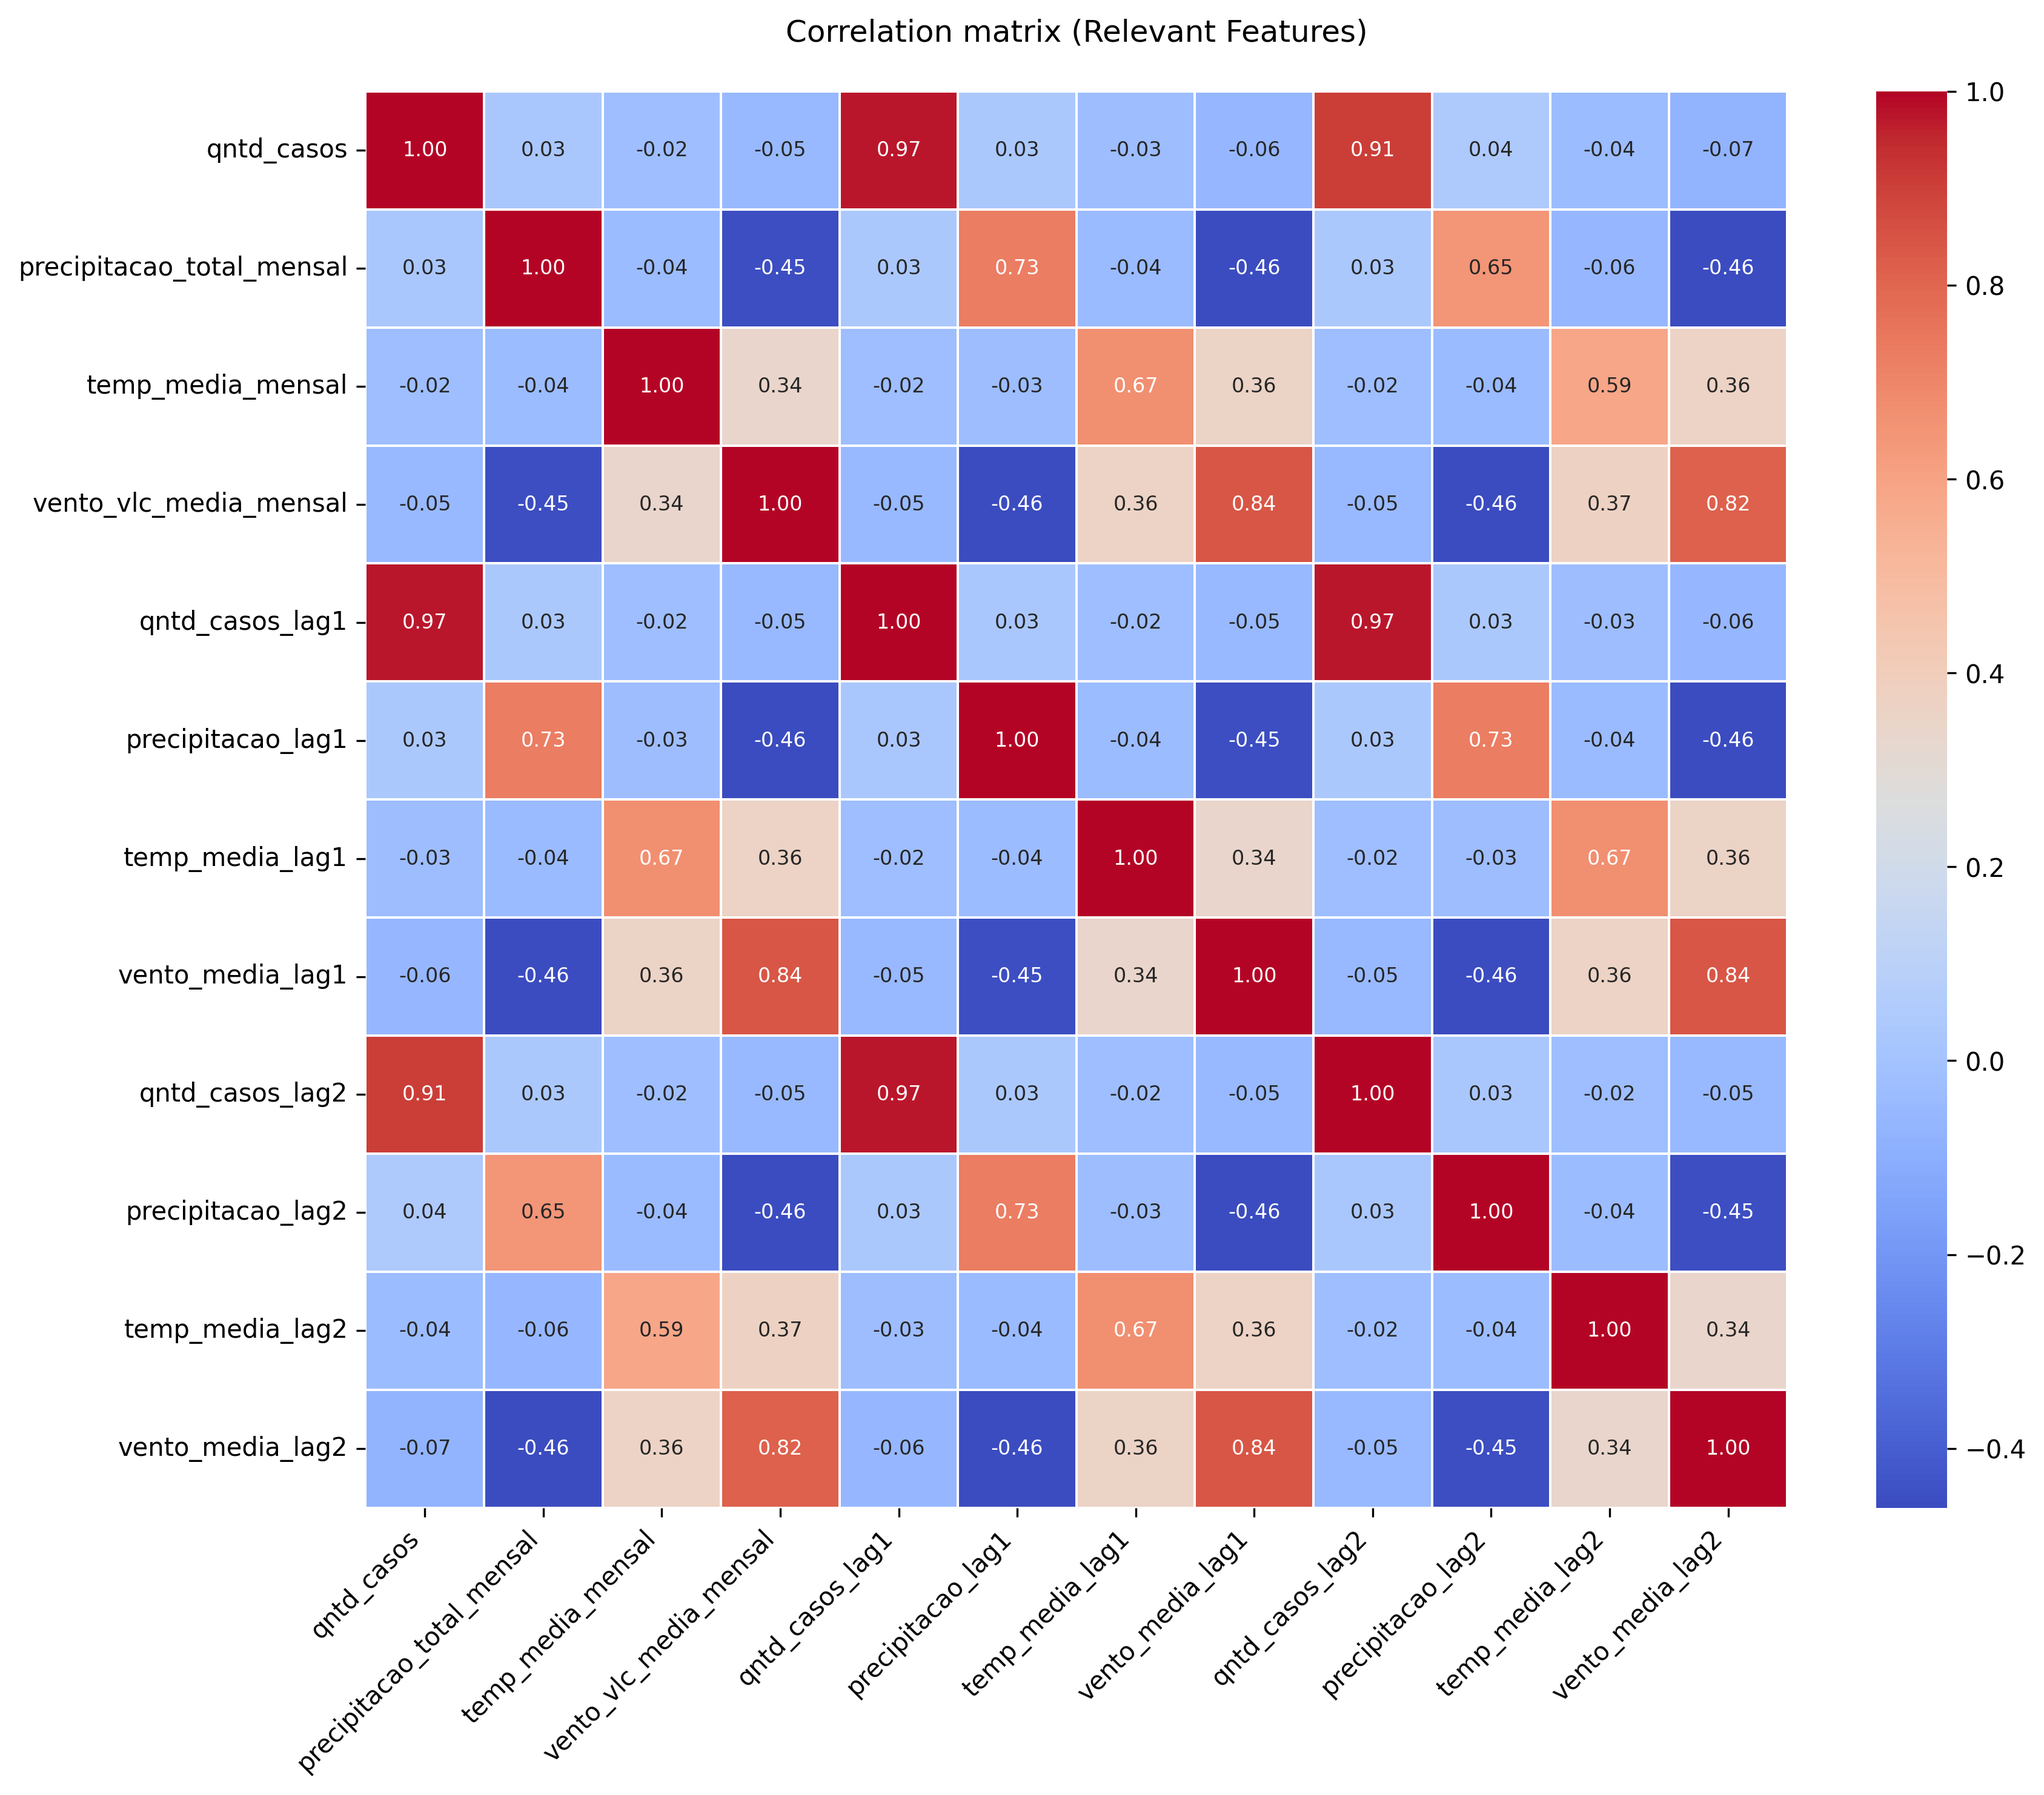
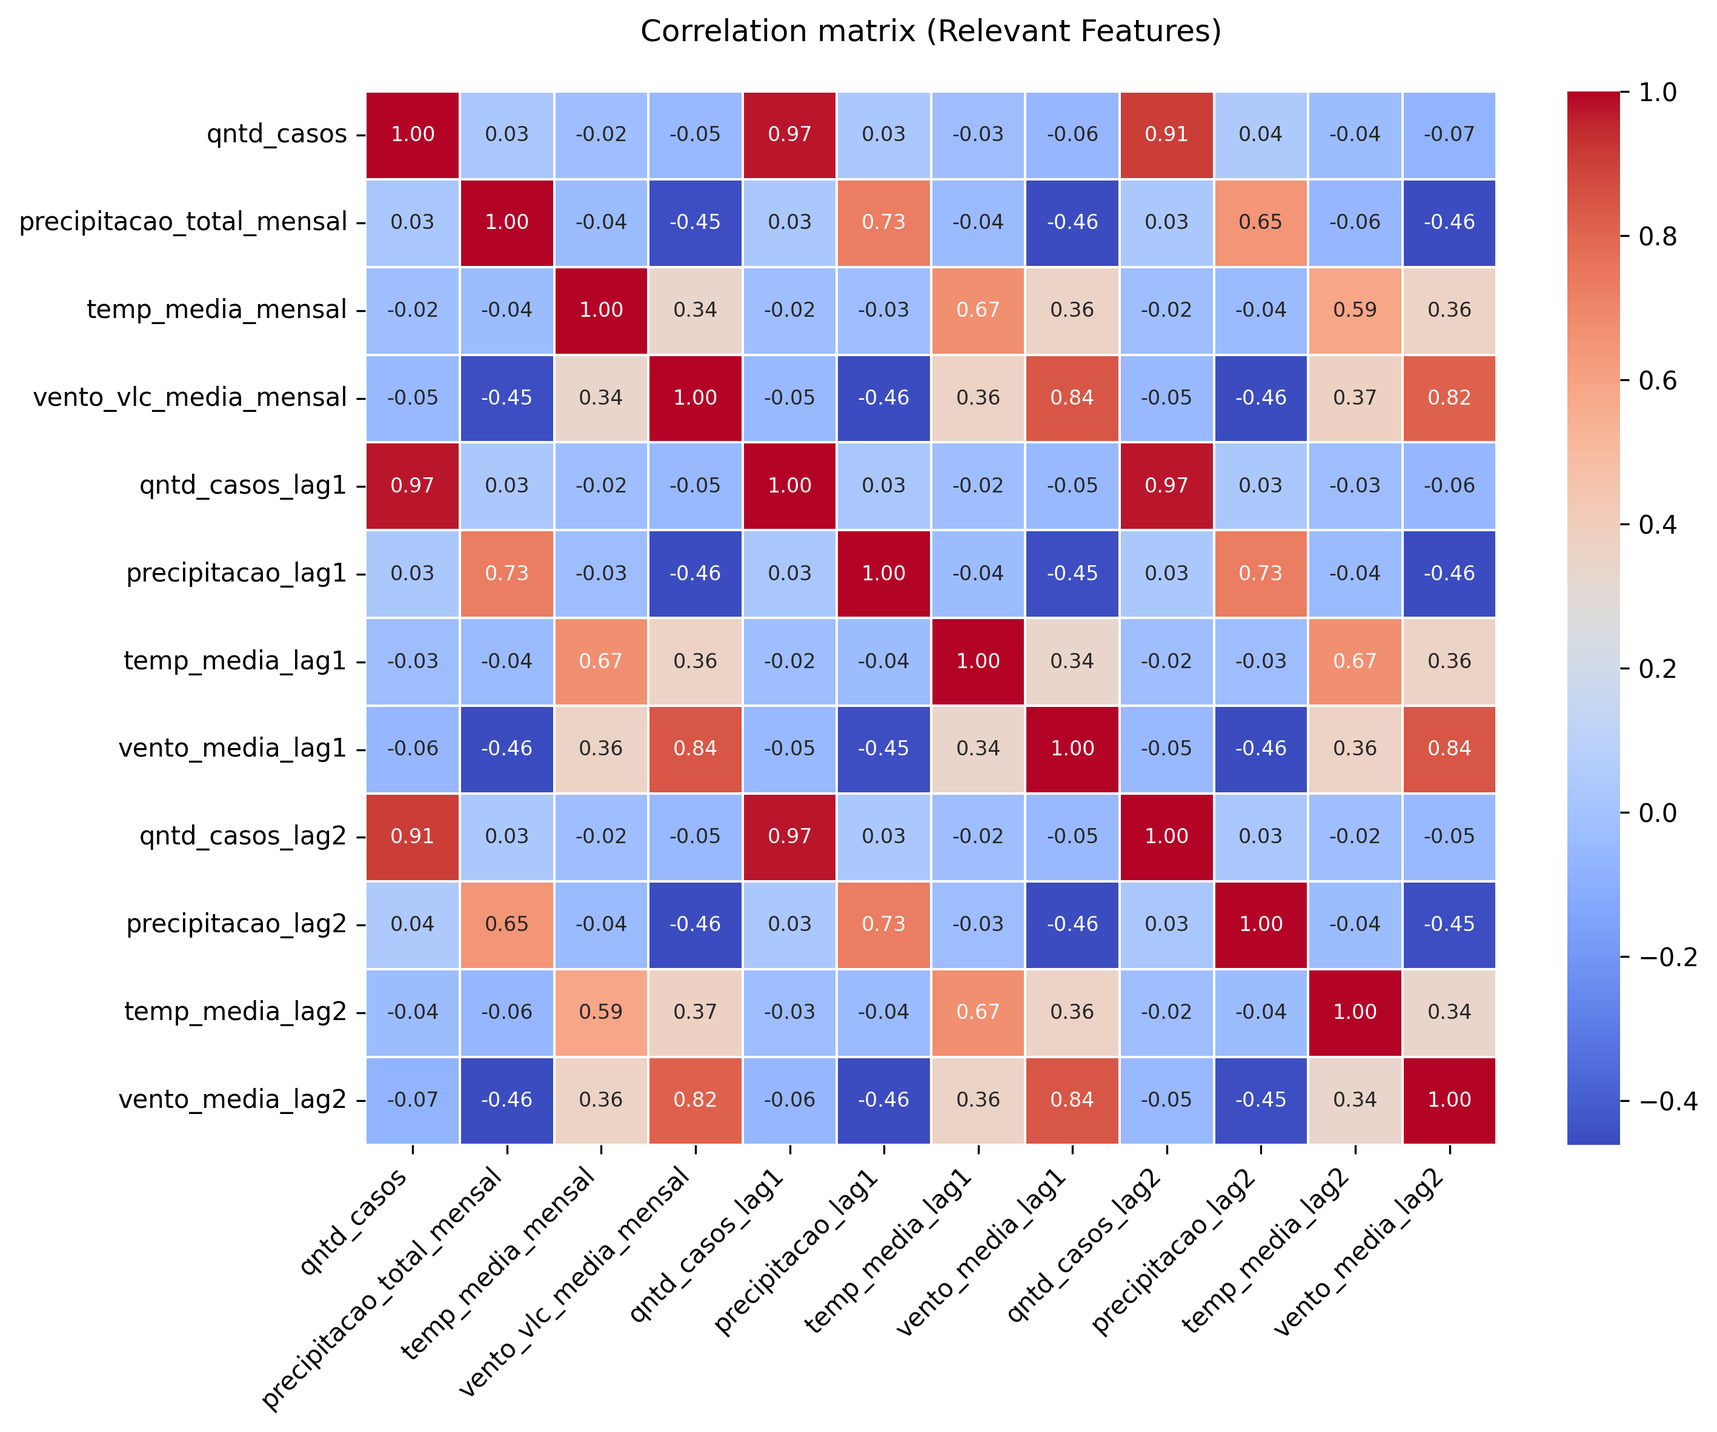
removing redundant data directory function callback

diff --git a/scripts/eda.py b/scripts/eda.py
@@ -25,8 +25,7 @@ def load_cleaned_data():
 
 
 
-def plot_dengue_cases_over_time(df):
-    models_dir = ensure_models_dir()
+def plot_dengue_cases_over_time(df, models_dir):
     plt.figure(figsize=(14, 5))
     df_monthly = df.groupby('dt_notificacao')['qntd_casos'].sum().reset_index()
     sns.lineplot(data=df_monthly, x='dt_notificacao', y='qntd_casos')
@@ -43,9 +42,7 @@ def plot_dengue_cases_over_time(df):
 
 
 
-def plot_symptoms_pie_chart(df):
-    models_dir = ensure_models_dir()
-    
+def plot_symptoms_pie_chart(df, models_dir):
     # Calculate total cases
     total_cases = df['qntd_casos'].sum()
     if total_cases == 0:
@@ -113,8 +110,7 @@ def plot_symptoms_pie_chart(df):
 
 
 
-def plot_correlation_heatmap(df):
-    models_dir = ensure_models_dir()
+def plot_correlation_heatmap(df, models_dir):
     plt.figure(figsize=(8, 6))
     cols = [
         'qntd_casos',
@@ -136,8 +132,7 @@ def plot_correlation_heatmap(df):
 
 
 
-def plot_cases_by_month(df):
-    models_dir = ensure_models_dir()
+def plot_cases_by_month(df, models_dir):
     plt.figure(figsize=(10, 6))
     sns.boxplot(x='month', y='qntd_casos', data=df)
     plt.title('Distribution of Dengue Cases by Month')
@@ -153,8 +148,7 @@ def plot_cases_by_month(df):
 
 
 
-def add_lag_features(df, lags=[1, 2]):
-    models_dir = ensure_models_dir()
+def add_lag_features(df, models_dir, lags=[1, 2]):
     df_lagged = df.copy()
     
     # Create lag features
@@ -175,7 +169,7 @@ def add_lag_features(df, lags=[1, 2]):
     df_corr = df_lagged[cols_corr].copy()
     
     
-    plt.figure(figsize=(12, 10))
+    plt.figure(figsize=(10, 8))
     sns.heatmap(
         df_corr.corr(numeric_only=True),
         annot=True,
@@ -201,8 +195,9 @@ def add_lag_features(df, lags=[1, 2]):
 if __name__ == "__main__":
     df = load_cleaned_data()
     if df is not None:
-        plot_dengue_cases_over_time(df)
-        plot_symptoms_pie_chart(df)
-        plot_correlation_heatmap(df)
-        plot_cases_by_month(df)
-        add_lag_features(df, lags=[1, 2])
+        models_dir = ensure_models_dir()
+        plot_dengue_cases_over_time(df, models_dir)
+        plot_symptoms_pie_chart(df, models_dir)
+        plot_correlation_heatmap(df, models_dir)
+        plot_cases_by_month(df, models_dir)
+        add_lag_features(df, models_dir, lags=[1, 2])
